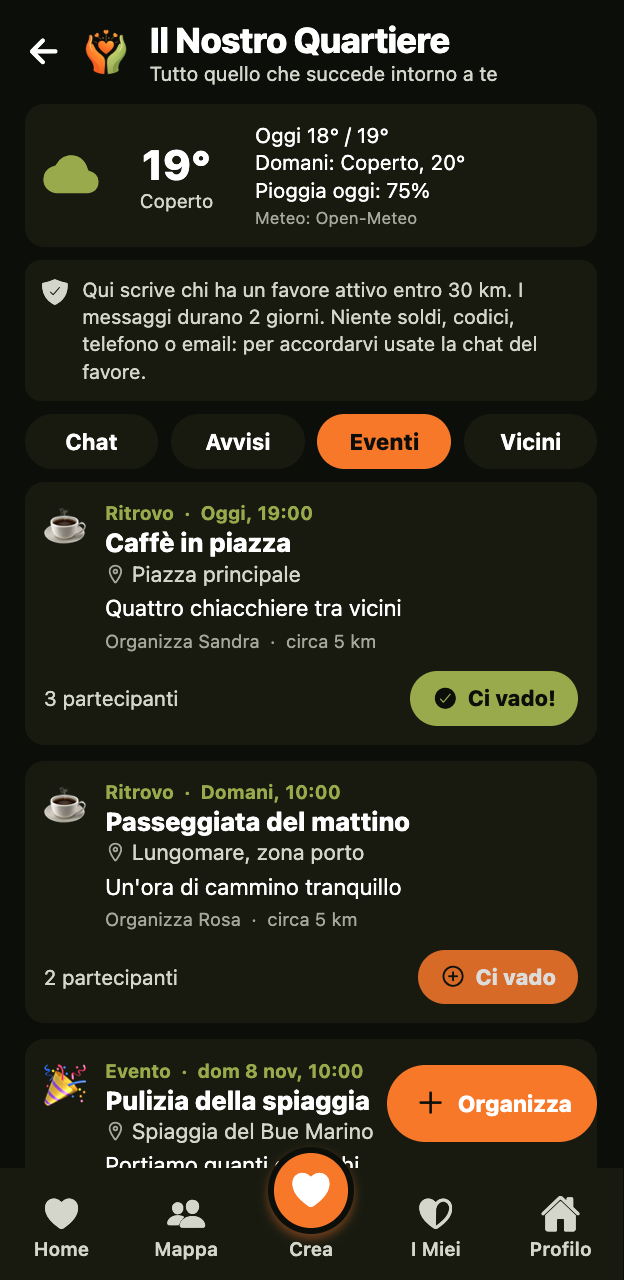
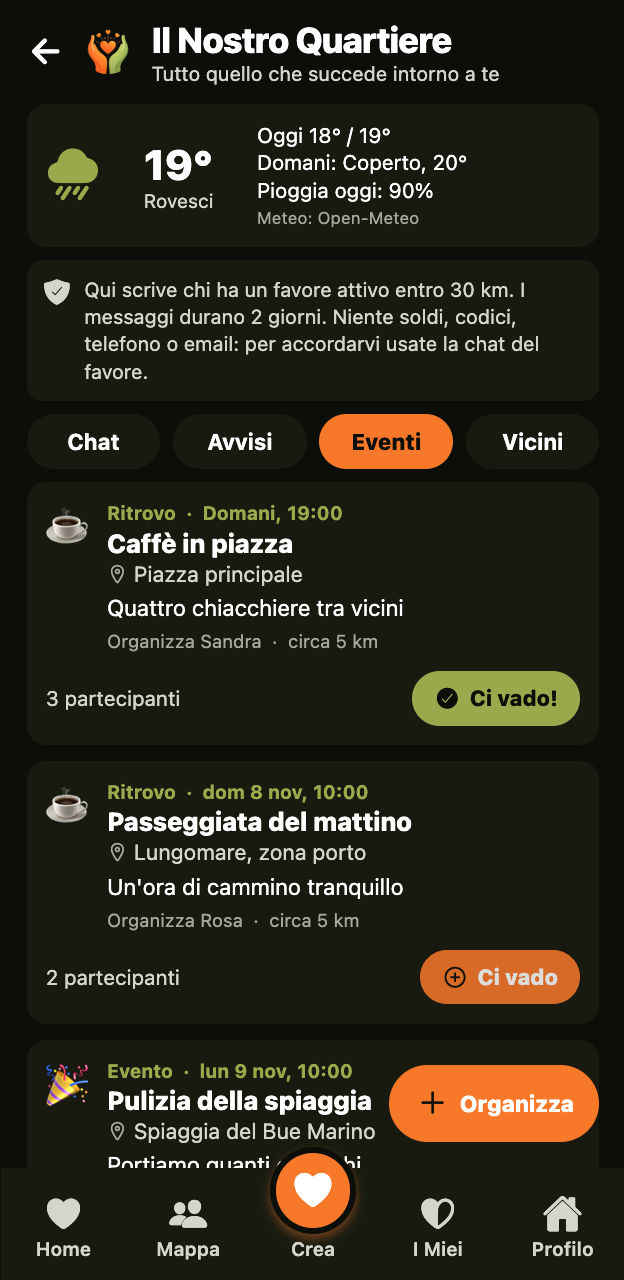
feat: landing con le novita dell'app (nuove schermate, sezione Novita, FAQ) (#86)
Carosello a 4 schermate con la Home nuova e la chat, sezione Novita dell'app con sei schede,
due FAQ nuove (testo grande, favori senza risposta) anche nei dati strutturati, og-image aggiornata.

diff --git a/landing/index.html b/landing/index.html
@@ -28,7 +28,7 @@
   <meta name="twitter:description" content="Scambio Favori è l'app gratuita per aiutarsi tra vicini: offri e ricevi favori, guadagna Granelli e costruisci una rete di supporto nel tuo quartiere." />
   <script type="application/ld+json">{"@context": "https://schema.org", "@type": "WebSite", "name": "Scambio Favori", "url": "https://scambiofavori.it/", "inLanguage": "it-IT"}</script>
   <script type="application/ld+json">{"@context": "https://schema.org", "@type": "MobileApplication", "name": "Scambio Favori", "applicationCategory": "SocialNetworkingApplication", "operatingSystem": "Android", "description": "Scambio Favori è l'app gratuita per aiutarsi tra vicini: offri e ricevi favori, guadagna Granelli e costruisci una rete di supporto nel tuo quartiere.", "inLanguage": "it-IT", "url": "https://scambiofavori.it/", "offers": {"@type": "Offer", "price": "0", "priceCurrency": "EUR"}}</script>
-  <script type="application/ld+json">{"@context": "https://schema.org", "@type": "FAQPage", "mainEntity": [{"@type": "Question", "name": "Cos'è Scambio Favori?", "acceptedAnswer": {"@type": "Answer", "text": "Scambio Favori è un'app gratuita che mette in contatto le persone dello stesso quartiere: puoi chiedere un aiuto o offrire il tuo tempo per piccoli favori come fare la spesa, portare a spasso il cane, dare ripetizioni o annaffiare le piante."}}, {"@type": "Question", "name": "Cosa sono i Granelli?", "acceptedAnswer": {"@type": "Answer", "text": "I Granelli  sono la valuta della comunità: 1 ora del tuo aiuto vale 1 Granello. Li guadagni aiutando un vicino e li spendi quando hai bisogno tu. Non sono denaro: servono a tenere lo scambio equo tra tutti."}}, {"@type": "Question", "name": "L'app è gratuita?", "acceptedAnswer": {"@type": "Answer", "text": "Sì. Scaricare e usare Scambio Favori non costa nulla e non ci sono abbonamenti obbligatori. Chi vuole può sostenere il progetto con un contributo volontario di 1 € al mese, che si disdice in qualsiasi momento dall'app."}}, {"@type": "Question", "name": "Come funziona uno scambio di favori?", "acceptedAnswer": {"@type": "Answer", "text": "Pubblichi un favore da donare o da ricevere, un vicino lo accetta e vi mettete d'accordo. A favore concluso si conferma con un codice QR, i Granelli passano da chi riceve l'aiuto a chi lo dà e ci si lascia una recensione."}}, {"@type": "Question", "name": "Come viene garantita la sicurezza?", "acceptedAnswer": {"@type": "Answer", "text": "I favori si fanno sempre di persona e si completano solo con il codice QR, mostrato da chi riceve e scansionato da chi aiuta. Per iscriversi servono la data di nascita (solo maggiorenni) e la verifica del telefono con un SMS. I nuovi utenti hanno limiti, i messaggi sospetti (richieste di denaro, codici, inviti a continuare su WhatsApp) vengono bloccati, c'è il tasto «Non mi sento al sicuro» e si può segnalare o bloccare chiunque. I dati personali vengono trattati nel rispetto del GDPR."}}, {"@type": "Question", "name": "In che lingue è disponibile l'app?", "acceptedAnswer": {"@type": "Answer", "text": "L'app è disponibile in italiano e in inglese: puoi cambiare lingua in qualsiasi momento da Profilo → Impostazioni."}}, {"@type": "Question", "name": "Dove posso scaricare l'app?", "acceptedAnswer": {"@type": "Answer", "text": "L'app è in pubblicazione su Google Play per Android. Torna su questa pagina per il link ufficiale appena disponibile."}}, {"@type": "Question", "name": "Funziona anche nelle isole e nei piccoli paesi?", "acceptedAnswer": {"@type": "Answer", "text": "Sì, anzi: è nata a Petrosino. I favori si cercano entro pochi chilometri e basta un vicino per iniziare. Più persone si iscrivono nel tuo paese, più la rete diventa utile."}}, {"@type": "Question", "name": "Come si disdice il contributo mensile?", "acceptedAnswer": {"@type": "Answer", "text": "Dall'app, in Profilo → Sostieni, tocca «Disdici». Il contributo è volontario (1 € al mese) e resta attivo fino alla fine del periodo già pagato. Puoi anche scrivere a infoapp@scambiofavori.it."}}, {"@type": "Question", "name": "Cosa succede se qualcuno non si presenta?", "acceptedAnswer": {"@type": "Answer", "text": "Il favore non si completa e nessun Granello passa di mano, perché serve il codice QR scambiato di persona. Puoi segnalare chi non si è presentato e il favore torna disponibile per altri vicini."}}]}</script>
+  <script type="application/ld+json">{"@context": "https://schema.org", "@type": "FAQPage", "mainEntity": [{"@type": "Question", "name": "Cos'è Scambio Favori?", "acceptedAnswer": {"@type": "Answer", "text": "Scambio Favori è un'app gratuita che mette in contatto le persone dello stesso quartiere: puoi chiedere un aiuto o offrire il tuo tempo per piccoli favori come fare la spesa, portare a spasso il cane, dare ripetizioni o annaffiare le piante."}}, {"@type": "Question", "name": "Cosa sono i Granelli?", "acceptedAnswer": {"@type": "Answer", "text": "I Granelli  sono la valuta della comunità: 1 ora del tuo aiuto vale 1 Granello. Li guadagni aiutando un vicino e li spendi quando hai bisogno tu. Non sono denaro: servono a tenere lo scambio equo tra tutti."}}, {"@type": "Question", "name": "L'app è gratuita?", "acceptedAnswer": {"@type": "Answer", "text": "Sì. Scaricare e usare Scambio Favori non costa nulla e non ci sono abbonamenti obbligatori. Chi vuole può sostenere il progetto con un contributo volontario di 1 € al mese, che si disdice in qualsiasi momento dall'app."}}, {"@type": "Question", "name": "Come funziona uno scambio di favori?", "acceptedAnswer": {"@type": "Answer", "text": "Pubblichi un favore da donare o da ricevere, un vicino lo accetta e vi mettete d'accordo. A favore concluso si conferma con un codice QR, i Granelli passano da chi riceve l'aiuto a chi lo dà e ci si lascia una recensione."}}, {"@type": "Question", "name": "Come viene garantita la sicurezza?", "acceptedAnswer": {"@type": "Answer", "text": "I favori si fanno sempre di persona e si completano solo con il codice QR, mostrato da chi riceve e scansionato da chi aiuta. Per iscriversi servono la data di nascita (solo maggiorenni) e la verifica del telefono con un SMS. I nuovi utenti hanno limiti, i messaggi sospetti (richieste di denaro, codici, inviti a continuare su WhatsApp) vengono bloccati, c'è il tasto «Non mi sento al sicuro» e si può segnalare o bloccare chiunque. I dati personali vengono trattati nel rispetto del GDPR."}}, {"@type": "Question", "name": "In che lingue è disponibile l'app?", "acceptedAnswer": {"@type": "Answer", "text": "L'app è disponibile in italiano e in inglese: puoi cambiare lingua in qualsiasi momento da Profilo → Impostazioni."}}, {"@type": "Question", "name": "Dove posso scaricare l'app?", "acceptedAnswer": {"@type": "Answer", "text": "L'app è in pubblicazione su Google Play per Android. Torna su questa pagina per il link ufficiale appena disponibile."}}, {"@type": "Question", "name": "Funziona anche nelle isole e nei piccoli paesi?", "acceptedAnswer": {"@type": "Answer", "text": "Sì, anzi: è nata a Petrosino. I favori si cercano entro pochi chilometri e basta un vicino per iniziare. Più persone si iscrivono nel tuo paese, più la rete diventa utile."}}, {"@type": "Question", "name": "Come si disdice il contributo mensile?", "acceptedAnswer": {"@type": "Answer", "text": "Dall'app, in Profilo → Sostieni, tocca «Disdici». Il contributo è volontario (1 € al mese) e resta attivo fino alla fine del periodo già pagato. Puoi anche scrivere a infoapp@scambiofavori.it."}}, {"@type": "Question", "name": "Cosa succede se qualcuno non si presenta?", "acceptedAnswer": {"@type": "Answer", "text": "Il favore non si completa e nessun Granello passa di mano, perché serve il codice QR scambiato di persona. Puoi segnalare chi non si è presentato e il favore torna disponibile per altri vicini."}}, {"@type": "Question", "name": "Posso ingrandire il testo dell'app?", "acceptedAnswer": {"@type": "Answer", "text": "Sì. In Impostazioni → Dimensione del testo scegli Normale, Grande o Molto grande: la scelta vale per tutta l'app e resta salvata."}}, {"@type": "Question", "name": "Cosa succede se un favore resta senza risposta?", "acceptedAnswer": {"@type": "Answer", "text": "Se nessuno lo accetta, il favore scade da solo dopo i giorni che hai scelto e un promemoria ti avvisa 24 ore prima: puoi modificarlo o pubblicarlo di nuovo. Se qualcuno lo accetta ma non lo conclude, dopo 24 ore arriva un promemoria a entrambi e dopo 7 giorni il favore torna disponibile."}}]}</script>
   <link href="https://fonts.googleapis.com/css2?family=DM+Sans:ital,wght@0,300;0,400;0,500;0,600;0,700;0,800;1,700&display=swap" rel="stylesheet">
   <style>
     :root {
@@ -820,7 +820,7 @@
 <script>
 (function(){var s=document.getElementById('shots');if(!s)return;var d=document.querySelectorAll('#shotDots i');
 s.addEventListener('scroll',function(){var i=Math.round(s.scrollLeft/s.clientWidth);d.forEach(function(x,k){x.className=k===i?'on':''})},{passive:true});
-var n=0,t=setInterval(function(){if(matchMedia('(prefers-reduced-motion: reduce)').matches){clearInterval(t);return}n=(n+1)%3;s.scrollTo({left:n*s.clientWidth,behavior:'smooth'})},4000);
+var n=0,t=setInterval(function(){if(matchMedia('(prefers-reduced-motion: reduce)').matches){clearInterval(t);return}n=(n+1)%d.length;s.scrollTo({left:n*s.clientWidth,behavior:'smooth'})},4000);
 s.addEventListener('pointerdown',function(){clearInterval(t)});})();
 </script>
 <style id="app-style">
@@ -905,11 +905,12 @@ body{background:#0C0E09!important}
       <div class="phone-frame">
         <div class="phone-notch"></div>
         <div class="shots" id="shots" tabindex="0" aria-label="Schermate dell'app">
-          <img src="screens/home.png" width="312" height="640" alt="Home dell'app: favori da donare e da ricevere con i Granelli" loading="eager">
+          <img src="screens/home.png" width="312" height="640" alt="Home dell'app: favori urgenti, vicini a te e altri, con i Granelli" loading="eager">
+          <img src="screens/chat.png" width="312" height="640" alt="Chat del favore con il pulsante + per punto d'incontro e posizione" loading="lazy">
           <img src="screens/quartiere.png" width="312" height="640" alt="Il Nostro Quartiere: meteo, chat, avvisi ed eventi" loading="lazy">
           <img src="screens/profilo.png" width="312" height="640" alt="Profilo con Granelli e favori fatti" loading="lazy">
         </div>
-        <div class="shot-dots" id="shotDots" aria-hidden="true"><i class="on"></i><i></i><i></i></div>
+        <div class="shot-dots" id="shotDots" aria-hidden="true"><i class="on"></i><i></i><i></i><i></i></div>
       </div>
     </div>
   </section>
@@ -983,6 +984,52 @@ body{background:#0C0E09!important}
       </div>
 
 
+    </div>
+  </div>
+
+  <!-- NOVITA -->
+  <div class="section reveal" id="novita">
+    <p class="section-eyebrow">Novità dell'app</p>
+    <h2 class="section-title">Più chiara, più semplice,<br>più facile da leggere</h2>
+    <p class="section-sub">Le ultime migliorie, pensate guardando come i vicini usano davvero Scambio Favori.</p>
+
+    <div class="features-grid">
+      <div class="feature-card">
+        <div class="feature-icon green">🏠</div>
+        <div class="feature-title">Una Home essenziale</div>
+        <p class="feature-desc">Ogni favore mostra solo l'essenziale: tipo, Granelli, titolo e distanza. Con tanti favori l'elenco si divide in Urgenti, Vicini a te e Altri, e si cerca per parola.</p>
+        <span class="feature-tag tag-green">Meno confusione</span>
+      </div>
+      <div class="feature-card accent-card">
+        <div class="feature-icon orange">🧭</div>
+        <div class="feature-title">Comincia da qui</div>
+        <p class="feature-desc">Per chi arriva: quattro passi (primo favore, presentazione al quartiere, aiutare un vicino, invitare qualcuno) e una barra che mostra quanto manca per sbloccare tutto.</p>
+        <span class="feature-tag tag-orange">Primi passi</span>
+      </div>
+      <div class="feature-card">
+        <div class="feature-icon green">🔔</div>
+        <div class="feature-title">Notifiche in ordine</div>
+        <p class="feature-desc">Una sola voce quando un favore si conclude, messaggi dello stesso favore raggruppati e un promemoria se un favore resta fermo. Niente più campanella piena.</p>
+        <span class="feature-tag tag-green">Meno rumore</span>
+      </div>
+      <div class="feature-card accent-card">
+        <div class="feature-icon orange">🔎</div>
+        <div class="feature-title">Testo più grande</div>
+        <p class="feature-desc">Nelle Impostazioni scegli tra Normale, Grande e Molto grande: tutta l'app si legge meglio, anche per chi vede poco o non ama i caratteri piccoli.</p>
+        <span class="feature-tag tag-orange">Accessibilità</span>
+      </div>
+      <div class="feature-card">
+        <div class="feature-icon green">💬</div>
+        <div class="feature-title">Chat più semplice</div>
+        <p class="feature-desc">Un solo pulsante «+» per mandare il punto d'incontro o la tua posizione, mostrata in una scheda pulita che si apre nella mappa.</p>
+        <span class="feature-tag tag-green">Incontrarsi è facile</span>
+      </div>
+      <div class="feature-card accent-card">
+        <div class="feature-icon orange">🤝</div>
+        <div class="feature-title">Grazie veloce e garanzie</div>
+        <p class="feature-desc">Ringrazia con una frase pronta, in un tocco. E dopo tre favori completati puoi garantire per un vicino che conosci di persona: la fiducia cresce insieme alla comunità.</p>
+        <span class="feature-tag tag-orange">Fiducia</span>
+      </div>
     </div>
   </div>
 
@@ -1100,6 +1147,8 @@ body{background:#0C0E09!important}
       <details class="faq-item"><summary>Funziona anche nelle isole e nei piccoli paesi?</summary><p>Sì, anzi: è nata a Petrosino. I favori si cercano entro pochi chilometri e basta un vicino per iniziare. Più persone si iscrivono nel tuo paese, più la rete diventa utile.</p></details>
       <details class="faq-item"><summary>Come si disdice il contributo mensile?</summary><p>Dall'app, in Profilo → Sostieni, tocca «Disdici». Il contributo è volontario (1 € al mese) e resta attivo fino alla fine del periodo già pagato. Puoi anche scrivere a infoapp@scambiofavori.it.</p></details>
       <details class="faq-item"><summary>Cosa succede se qualcuno non si presenta?</summary><p>Il favore non si completa e nessun Granello passa di mano, perché serve il codice QR scambiato di persona. Puoi segnalare chi non si è presentato e il favore torna disponibile per altri vicini.</p></details>
+      <details class="faq-item"><summary>Posso ingrandire il testo dell'app?</summary><p>Sì. In Impostazioni → Dimensione del testo scegli Normale, Grande o Molto grande: la scelta vale per tutta l'app e resta salvata.</p></details>
+      <details class="faq-item"><summary>Cosa succede se un favore resta senza risposta?</summary><p>Se nessuno lo accetta, il favore scade da solo dopo i giorni che hai scelto e un promemoria ti avvisa 24 ore prima: puoi modificarlo o pubblicarlo di nuovo. Se qualcuno lo accetta ma non lo conclude, dopo 24 ore arriva un promemoria a entrambi e dopo 7 giorni il favore torna disponibile.</p></details>
   </section>
   <style>
     .faq { max-width: 760px; margin: 0 auto; padding: 4rem 1.5rem; }
